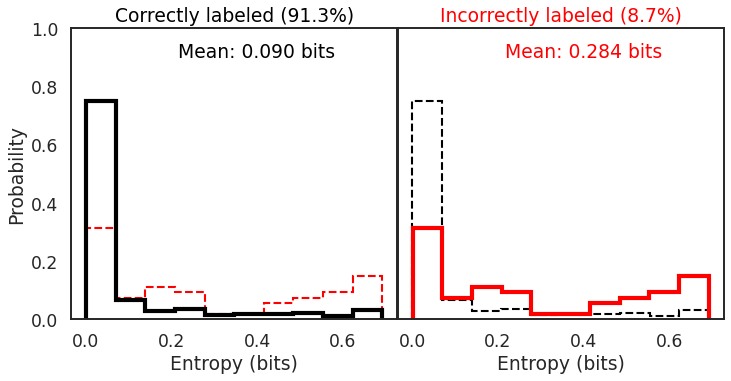
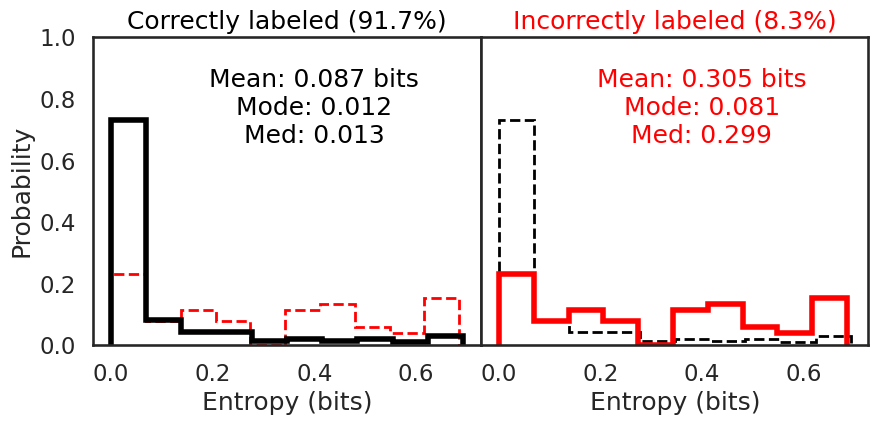
img updates

Changed region(s): [[0.0, 0.0, 0.9932, 0.9816], [0.6922, 0.231, 0.9029, 0.3465], [0.2709, 0.231, 0.4514, 0.3465]]

diff --git a/_portfolio/projectA_pneumonia_bcnn.md b/_portfolio/projectA_pneumonia_bcnn.md
@@ -137,7 +137,7 @@ computational requirement of a full grid search or a random search which would r
 large number of parameter samplings. I list the main 
 parameters of the neural network that I optimize with Keras-tuner.
 
-```python
+~~~
 'rdm_contrast'# absolute amount of random contrast to modify in images
 'rdm_trans'# absolute amount of random translation (x,y) to modify in images
 'rdm_flip'# choice between flipping images horizontally, vertically, or both 
@@ -150,7 +150,7 @@ parameters of the neural network that I optimize with Keras-tuner.
 'beta_1'# exponential decay rate of 1st moment estimates
 'beta_2'# exponential decay rate of 2nd moment estimates
 'weight_decay'# weight decay value
- ```
+~~~
 
 I run the tuner with 75 trials, with each trial running for 10 full epochs of training 
 using all the training images per epoch iteration. Validation accuracy was tracked with
@@ -173,7 +173,7 @@ small value of 1e-7 to better fine-tune the model. This second round of training
 maximum of 25 epochs, with `EarlyStopping` in use again to prevent over fitting. The best
 values for these hyperparameters are listed in the shaded box below.
 
-```python
+~~~
 {'rdm_contrast': 0.27,      # abs amount of random contrast in images
  'rdm_trans': 0.31,         # abs amount of random translation (x,y) in images
  'rdm_flip': 'vertical',    # choice to flip images about horizontal, vertical, or both 
@@ -186,7 +186,7 @@ values for these hyperparameters are listed in the shaded box below.
  'beta_1': 0.93,            # exponential decay rate of 1st moment estimates
  'beta_2': 0.912,           # exponential decay rate of 2nd moment estimates
  'weight_decay': 0.0025}    # weight decay value
- ```
+~~~
 
 ### Model Validation and Performance
 The test set of images contains 234 'Normal' chest x-rays and 390 'Pneumonia' chest x-rays.
@@ -280,12 +280,50 @@ of a final classification. To illustrate this I plot 4 different chest x-rays be
 a different type of classification, in the same orientation as a confusion matrix, that is:
 
 
-
 |:-:|:-:|
 | <a style="color:green"><b>True Negative</b></a>  | <a style="color:red"><b>False Positive</b></a> |
 |![TN](/images/pneumonia_cxr_nn/cxr_tn.png)|![FP](/images/pneumonia_cxr_nn/cxr_fp.png)|
 | <a style="color:red"><b>False Negative</b></a> | <a style="color:green"><b>True Positive</b></a>  |
 |![FN](/images/pneumonia_cxr_nn/cxr_fn.png)|![TP](/images/pneumonia_cxr_nn/cxr_tp.png)|
+
+
+These images show that Bayesian neural networks can assess the uncertainty of the classifications
+it produces, and relay that information as a 'spread' in the probabilities of each image being
+a specific class. Ideally, we'd want the network to be **very** sure when it classifies negative
+and positive classes correctly, which means very small spread in those probabilities. This is
+shown in the true positive Pneumonia detection (bottom right above), and the true negative
+diagnosis of no Pneumonia (top left above). Counter to being very certain of it's correct
+classifications, we want the network to display much larger uncertainty in its incorrect
+classifications, in the form of a large spread in the class probabilities of each image. This 
+is apparent in the false positive (top right above) and the false negative (bottom left above).
+This extra information makes the classifications from this neural network more interpretable
+than just being 'Pneumonia' or 'Normal' now they have a 'quality' as to how reliable the 
+classification can be considered.
+
+We can also use the classification probabilities to assess the overall performance of the network
+by calculating the entropy in the classifications. Entropy, as a reminder, is the amount of 
+information that is recoverable from a system. In this sense information is taken to be the
+amount of heterogeneity. A 'perfect' classification of 'Pneumonia' would have an entropy of 
+0.0 as the entirety of all classification probabilities are homogenous and indicating
+'Pneumonia'
+
+I first plot the entropy distributions split on whether the image was correctly or incorrectly
+classified. The left plot is the entropy distribution of the correctly classified images. The 
+right plot is the entropy distribution of the incorrectly classified images. Each entropy
+distribution is also plotted in dashed lines to better compare them to each other. The mean, 
+median, and mode for the correctly classified images were 0.087 bits, 0.013 bits, and 0.012 bits,
+respectively. The mean, median, and mode for the incorrectly classified images were 0.305 bits,
+0.299 bits, and 0.081 bits, respectively. The smaller entropy in the correctly classified images
+illustrates how much more confident the model is in its predictions, since there is little
+variation in the predictions for each correctly classified image. The incorrectly classified 
+images have an entropy 3.5x to 20x the amount of the correctly classified images. The network
+isn't as sure, which means the predictions have more variation, increasing the entropy.
+
+![Entropy Dists](images/pneumonia_cxr_nn/pneumonia_bcnn_entropy_dist.png)
+
+
+
+
 
 
 
@@ -330,8 +368,6 @@ a different type of classification, in the same orientation as a confusion matri
   </tbody>
 
 </table>
-
-
 
 
 
